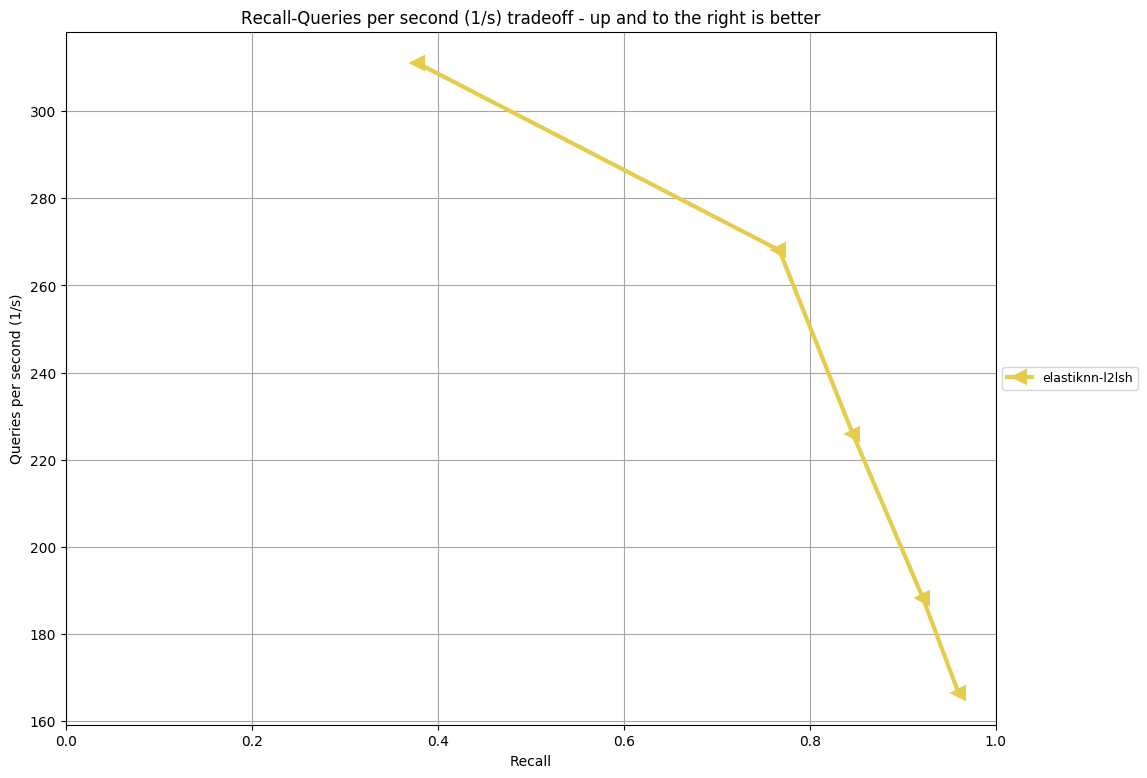
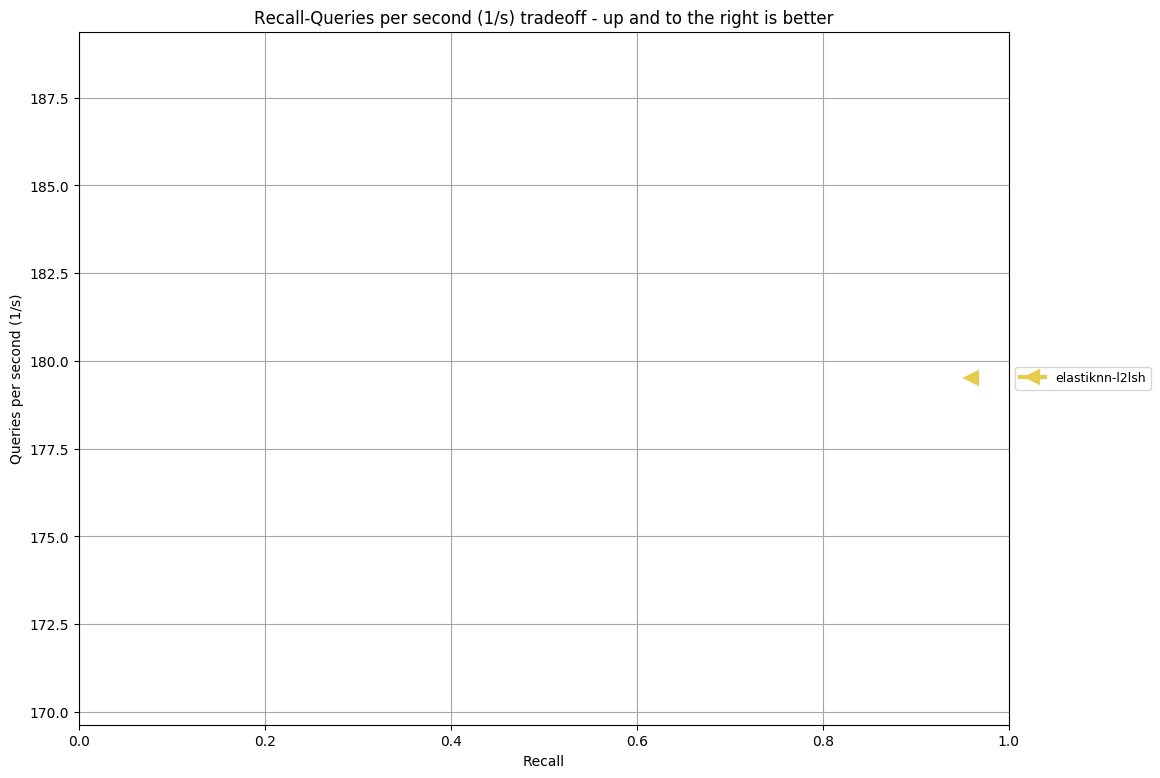
Panama implementation for euclideanDistance

diff --git a/elastiknn-models/src/main/java/com/klibisz/elastiknn/models/VectorUtils.java b/elastiknn-models/src/main/java/com/klibisz/elastiknn/models/VectorUtils.java
@@ -1,0 +1,87 @@
+package com.klibisz.elastiknn.models;
+
+import jdk.incubator.vector.FloatVector;
+import jdk.incubator.vector.VectorMask;
+import jdk.incubator.vector.VectorOperators;
+import jdk.incubator.vector.VectorSpecies;
+
+public class VectorUtils {
+
+    private static final VectorSpecies<Float> species = FloatVector.SPECIES_PREFERRED;
+
+    public static float dotProduct(float[] v1, float[] v2) {
+        float dp = 0f;
+        int i = 0;
+        int bound = species.loopBound(v1.length);
+        FloatVector pv1, pv2;
+        for (; i < bound; i += species.length()) {
+            pv1 = FloatVector.fromArray(species, v1, i);
+            pv2 = FloatVector.fromArray(species, v2, i);
+            dp += pv1.mul(pv2).reduceLanes(VectorOperators.ADD);
+        }
+        if (i == v1.length) return dp;
+        else {
+            VectorMask<Float> m = species.indexInRange(i, v1.length);
+            pv1 = FloatVector.fromArray(species, v1, i, m);
+            pv2 = FloatVector.fromArray(species, v2, i, m);
+            return dp + pv1.mul(pv2).reduceLanes(VectorOperators.ADD);
+        }
+    }
+
+    public static float dotFma(float[] v1, float[] v2) {
+        float dp = 0f;
+        for (int i = 0; i < v1.length; i++) dp = Math.fma(v1[i], v2[i], dp);
+        return dp;
+    }
+
+    public static double euclideanDistance(float[] v1, float[] v2) {
+        float sumSqrDiff = 0f;
+        int i = 0;
+        int bound = species.loopBound(v1.length);
+        FloatVector pv1, pv2, pv3;
+        for (; i < bound; i+= species.length()) {
+            pv1 = FloatVector.fromArray(species, v1, i);
+            pv2 = FloatVector.fromArray(species, v2, i);
+            pv3 = pv1.sub(pv2);
+            // For some unknown reason, pv3.mul(pv3) is significantly faster than pv3.pow(2).
+            sumSqrDiff += pv3.mul(pv3).reduceLanes(VectorOperators.ADD);
+        }
+        if (i < v1.length) {
+            VectorMask<Float> m = species.indexInRange(i, v1.length);
+            pv1 = FloatVector.fromArray(species, v1, i, m);
+            pv2 = FloatVector.fromArray(species, v2, i, m);
+            pv3 = pv1.sub(pv2);
+            sumSqrDiff += pv3.mul(pv3).reduceLanes(VectorOperators.ADD);
+        }
+        return Math.sqrt(sumSqrDiff);
+    }
+
+    /**
+     * Compute the number of intersecting (i.e. identical) elements between two int arrays.
+     * IMPORTANT: Assumes the given arrays are already sorted in ascending order and _does not_ check if this is true.
+     * If the given arrays are not sorted, the answer will be wrong.
+     * This is implemented in Java because for some reason Scala will Box the ints in some cases which is unnecessary
+     * and far slower.
+     * @param xs
+     * @param ys
+     * @return The number of identical elements in the two arrays. For example {1,2,3}, {2,3,4} would return 2.
+     */
+    public static int sortedIntersectionCount(final int [] xs, final int [] ys) {
+        int n = 0;
+        int xi = 0;
+        int yi = 0;
+        while (xi < xs.length && yi < ys.length) {
+            int x = xs[xi];
+            int y = ys[yi];
+            if (x < y) xi += 1;
+            else if (x > y) yi += 1;
+            else {
+                n += 1;
+                xi += 1;
+                yi += 1;
+            }
+        }
+        return n;
+    }
+
+}

diff --git a/elastiknn-models/src/main/java/com/klibisz/elastiknn/models/L2LshModel.java b/elastiknn-models/src/main/java/com/klibisz/elastiknn/models/L2LshModel.java
@@ -2,7 +2,7 @@ package com.klibisz.elastiknn.models;
 
 import java.util.*;
 
-import static com.klibisz.elastiknn.models.Utils.dot;
+import static com.klibisz.elastiknn.models.VectorUtils.dotProduct;
 import static com.klibisz.elastiknn.storage.UnsafeSerialization.writeInts;
 
 public class L2LshModel implements HashingModel.DenseFloat {
@@ -72,7 +72,7 @@ public class L2LshModel implements HashingModel.DenseFloat {
             for (int ixk = 0; ixk < k; ixk++) {
                 float[] a = A[ixL * k + ixk];
                 float b = B[ixL * k + ixk];
-                ints[ixk + 1] = (int) Math.floor((dot(a, values) + b) / w);
+                ints[ixk + 1] = (int) Math.floor((dotProduct(a, values) + b) / w);
             }
             hashes[ixL] = HashAndFreq.once(writeInts(ints));
         }
@@ -91,7 +91,7 @@ public class L2LshModel implements HashingModel.DenseFloat {
             for (int ixk = 0; ixk < k; ixk++) {
                 float[] a = A[ixL * k + ixk];
                 float b = B[ixL * k + ixk];
-                float proj = dot(a, values) + b;
+                float proj = dotProduct(a, values) + b;
                 int hash = (int) Math.floor(proj / w);
                 float dneg = proj - hash * w;
                 sortedPerturbations[ixL][ixk * 2 + 0] = new Perturbation(ixL, ixk, -1, proj, hash, Math.abs(dneg));

diff --git a/elastiknn-models/src/main/java/com/klibisz/elastiknn/models/CosineLshModel.java b/elastiknn-models/src/main/java/com/klibisz/elastiknn/models/CosineLshModel.java
@@ -2,7 +2,7 @@ package com.klibisz.elastiknn.models;
 
 import com.klibisz.elastiknn.storage.BitBuffer;
 
-import static com.klibisz.elastiknn.models.Utils.dot;
+import static com.klibisz.elastiknn.models.VectorUtils.dotProduct;
 import static com.klibisz.elastiknn.storage.UnsafeSerialization.writeInt;
 
 import java.util.Random;
@@ -38,7 +38,7 @@ public class CosineLshModel implements HashingModel.DenseFloat {
         for (int ixL = 0; ixL < L; ixL++) {
             BitBuffer.IntBuffer buf = new BitBuffer.IntBuffer(writeInt(ixL));
             for (int ixk = 0; ixk < k; ixk++) {
-                float dot = dot(planes[ixL * k + ixk], values);
+                float dot = dotProduct(planes[ixL * k + ixk], values);
                 if (dot > 0) buf.putOne();
                 else buf.putZero();
             }

diff --git a/elastiknn-models/src/main/java/com/klibisz/elastiknn/models/ExactModel.java b/elastiknn-models/src/main/java/com/klibisz/elastiknn/models/ExactModel.java
@@ -4,7 +4,7 @@ import jdk.internal.vm.annotation.ForceInline;
 
 import java.util.Arrays;
 
-import static com.klibisz.elastiknn.models.Utils.sortedIntersectionCount;
+import static com.klibisz.elastiknn.models.VectorUtils.sortedIntersectionCount;
 
 public class ExactModel {
 
@@ -44,11 +44,7 @@ public class ExactModel {
         @Override
         @ForceInline
         public double similarity(float[] v1, float[] v2) {
-            double sumSqrDiff = 0.0;
-            for (int i = 0; i < v1.length; i++) {
-                sumSqrDiff += Math.pow(v1[i] - v2[i], 2);
-            }
-            double dist = Math.sqrt(sumSqrDiff);
+            double dist = VectorUtils.euclideanDistance(v1, v2);
             return 1.0 / (1 + dist);
         }
     }

diff --git a/docs/pages/performance/fashion-mnist/results.md b/docs/pages/performance/fashion-mnist/results.md
@@ -1,10 +1,3 @@
 |Model|Parameters|Recall|Queries per Second|
 |---|---|---|---|
-|eknn-l2lsh|L=100 k=4 w=1024 candidates=500 probes=0|0.378|311.018|
-|eknn-l2lsh|L=100 k=4 w=1024 candidates=1000 probes=0|0.447|254.704|
-|eknn-l2lsh|L=100 k=4 w=1024 candidates=500 probes=3|0.635|247.214|
-|eknn-l2lsh|L=100 k=4 w=1024 candidates=1000 probes=3|0.717|219.134|
-|eknn-l2lsh|L=100 k=4 w=2048 candidates=500 probes=0|0.767|268.072|
-|eknn-l2lsh|L=100 k=4 w=2048 candidates=1000 probes=0|0.846|225.828|
-|eknn-l2lsh|L=100 k=4 w=2048 candidates=500 probes=3|0.922|188.321|
-|eknn-l2lsh|L=100 k=4 w=2048 candidates=1000 probes=3|0.960|166.405|
+|eknn-l2lsh|L=100 k=4 w=2048 candidates=1000 probes=3|0.960|179.507|
